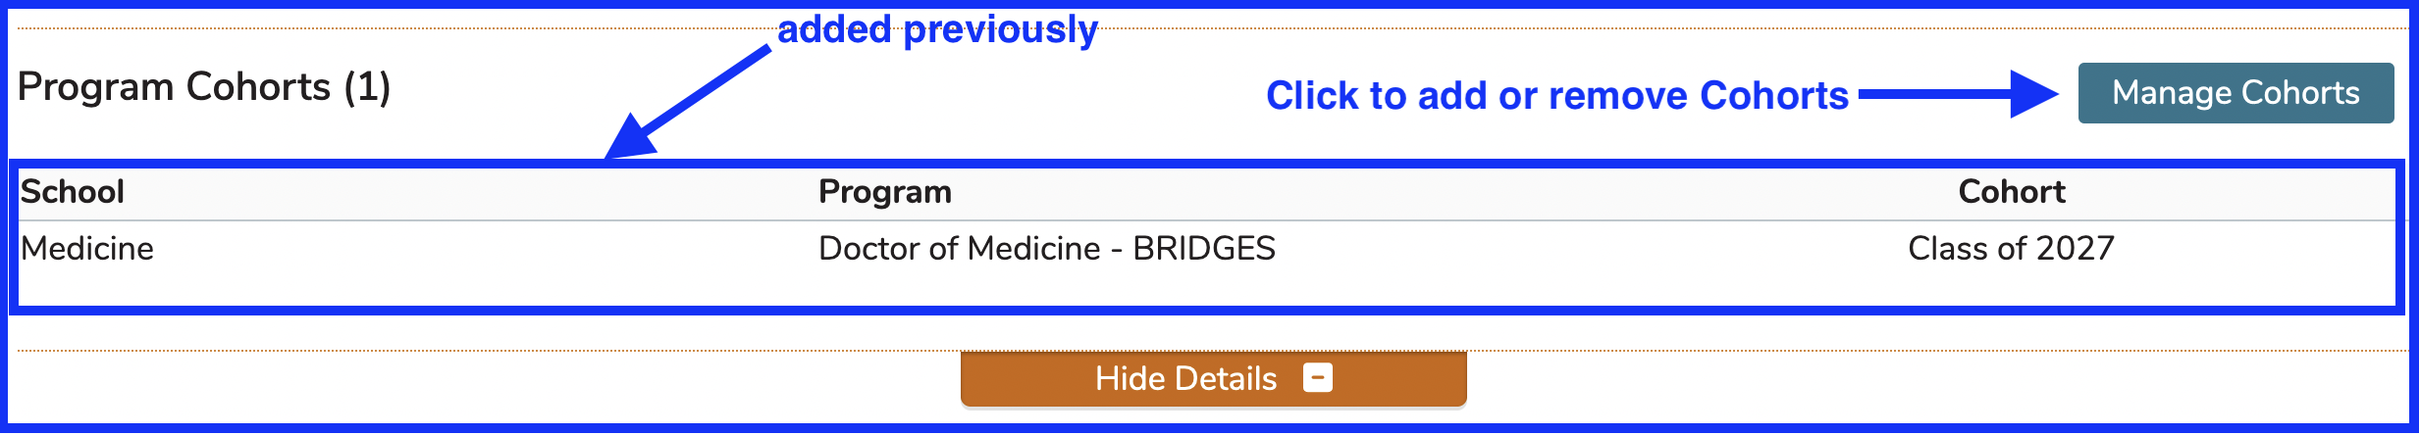
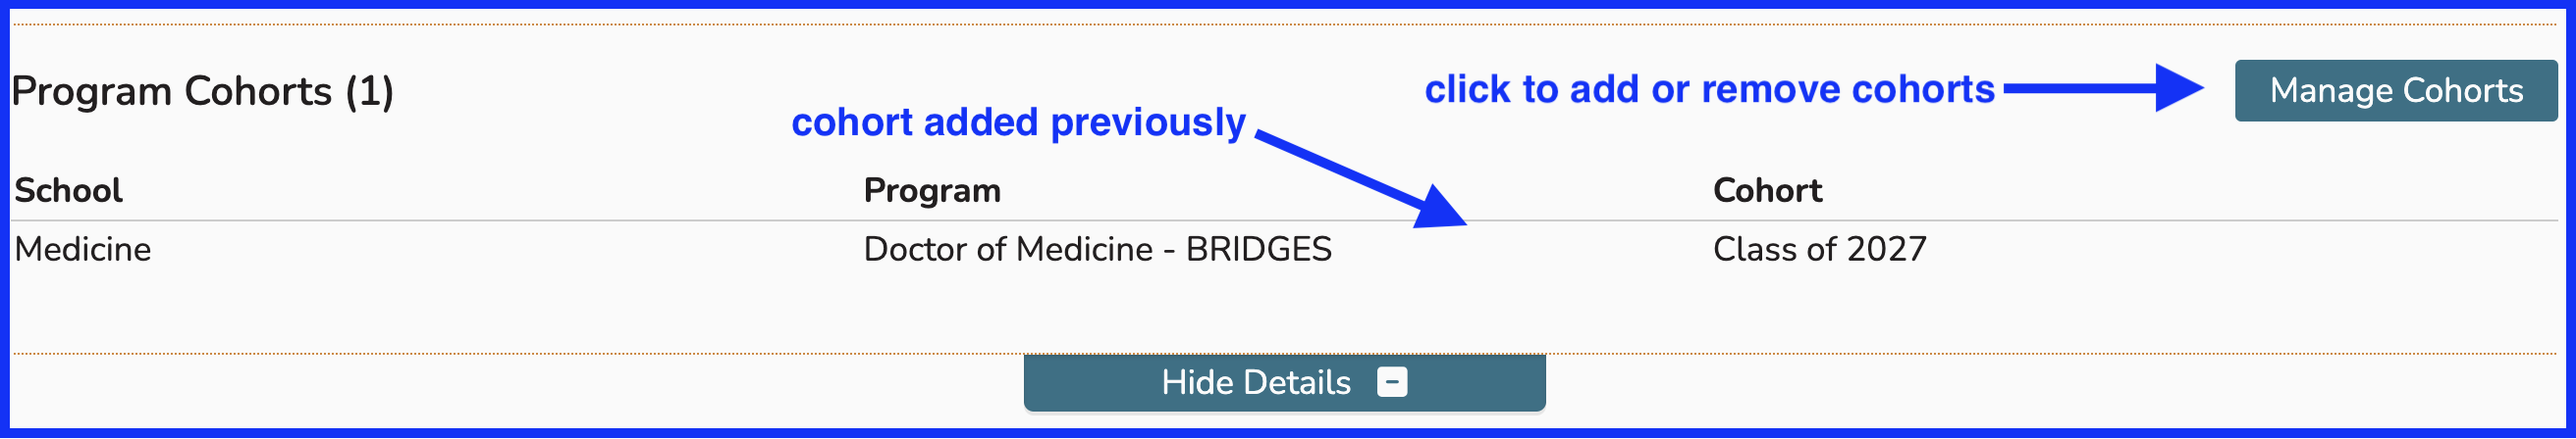
image replaced - caption updates

Changed region(s): [[0.0, 0.0, 1.0, 1.0], [0.0, 0.1464, 0.1561, 0.2635]]

diff --git a/courses-and-sessions/courses/edit-course.md b/courses-and-sessions/courses/edit-course.md
@@ -70,9 +70,9 @@ In order to populate courses with learner groups, the course must first be assoc
 
 ### Select Cohort
 
-To add or remove Cohorts from a Course, click the Manage Cohorts button as shown below. This appears at the bottom of the **Course Details** section.
+To add or remove cohorts from a course, click the Manage Cohorts button as shown below. This appears at the bottom of the **Course Details** section.
 
-![Manage Cohorts](../../images/course_images/manage_cohorts.png)
+![manage cohorts](../../images/course_images/manage_cohorts.png)
 
 In this case, we want to add the Doctor of Medicine - BRIDGES Class of 2026 to this Course. Click on its label as shown below.
 
